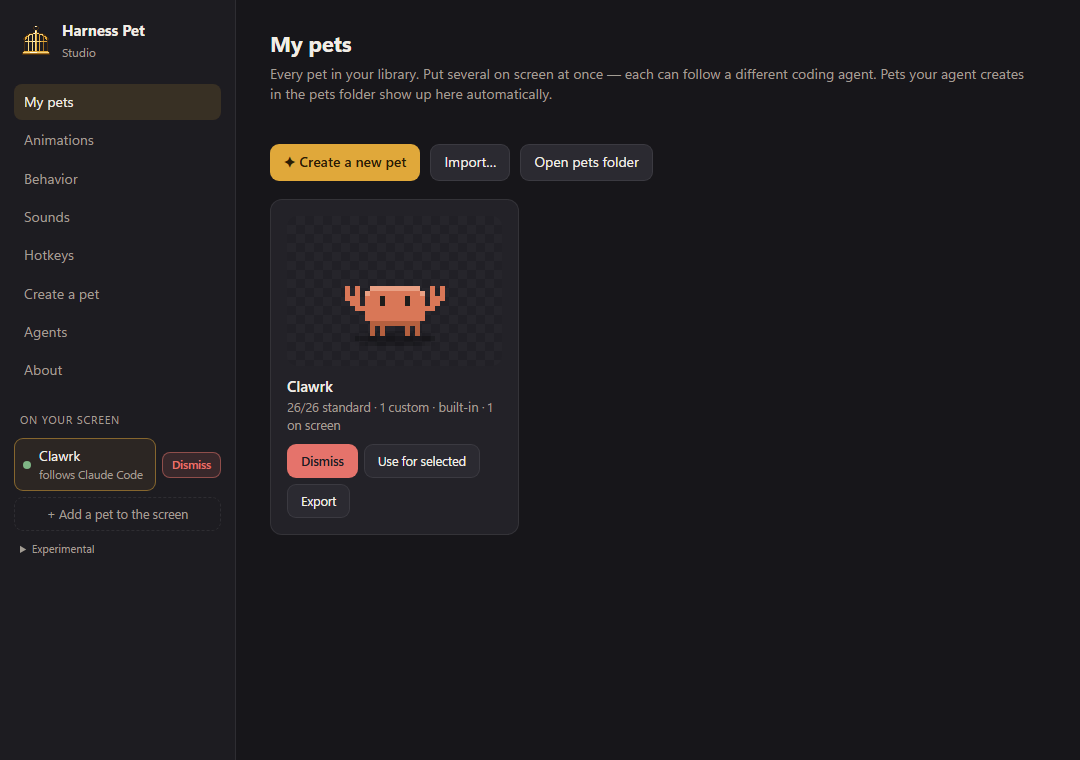
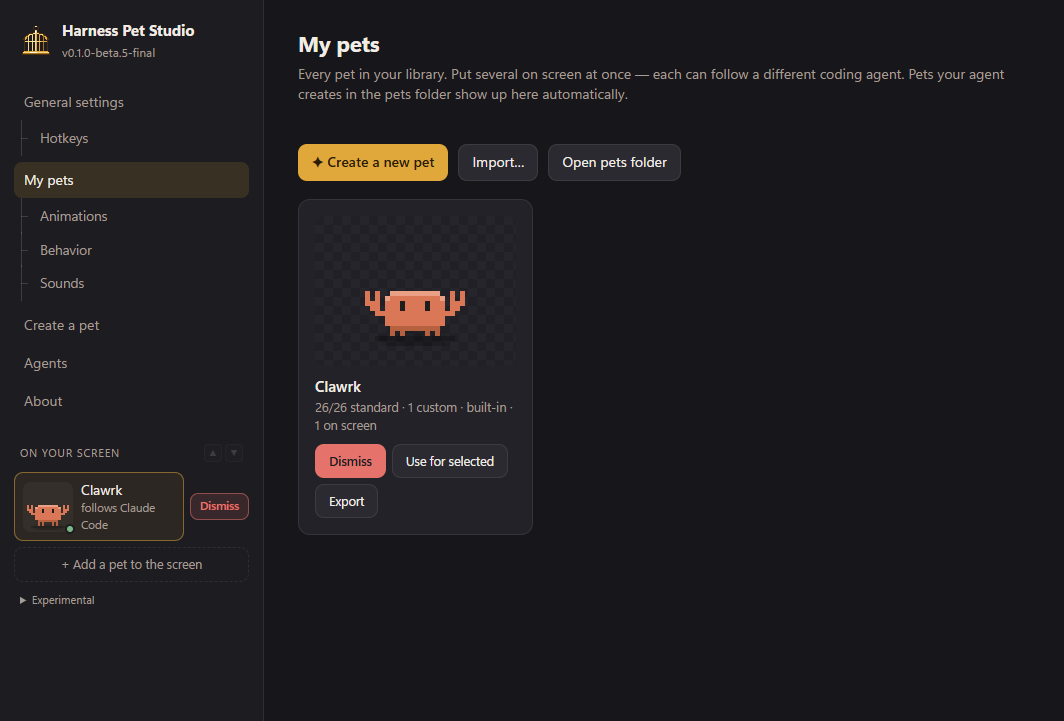
Release 0.1.0-beta.5-final: fix Studio's Show button, a plainer beta warning
Studio's Show button failed after showing a pet: refreshing it returned the
pet's runtime, which holds its window and can't be sent back to Studio. The
handler now returns nothing, and a test covers it.

The README and changelog now call this a barely tested beta, tried on two PCs,
with subpar performance on a 10-year-old Windows 10 laptop.

The docs now match the app: the pet's menu is on middle-click, the sound count
and size range are right, the Rust helpers are explained in Verify it yourself
and in the build steps, and pets are shared through an issue. Issue templates
use the enhancement label, and private security reporting is on.

diff --git a/test/security-boundaries.test.js b/test/security-boundaries.test.js
@@ -103,6 +103,29 @@ test('Studio handlers enforce sender and input checks before filesystem or hook 
   assert.equal(context.testPrefs.instances[0].pet, 'outside');
 });
 
+test('refreshing a pet from Studio sends nothing back that Electron cannot clone', () => {
+  const handlers = new Map();
+  const refreshed = [];
+  const main = path.join(__dirname, '../main.js');
+  const realRequire = createRequire(main);
+  const context = vm.createContext({ process, console, __dirname: path.dirname(main), setTimeout, clearTimeout,
+    require(name) {
+      if (name === 'electron') return { app: { commandLine: { appendSwitch() {} }, requestSingleInstanceLock: () => false, quit() {} }, ipcMain: { handle: (name, fn) => handlers.set(name, fn) } };
+      if (['./lib/security', './lib/ipc-policy', 'fs', 'path'].includes(name)) return realRequire(name);
+      // Like the real host, this hands back the pet's live runtime, which holds its window.
+      if (name === './lib/pet-host') return { refreshPet: (uid) => { refreshed.push(uid); return { uid, win: { destroy() {} } }; } };
+      return {};
+    } });
+  vm.runInContext(fs.readFileSync(main, 'utf8'), context);
+  const frame = { url: pathToFileURL(path.join(__dirname, '../studio/index.html')).href };
+  const wc = { mainFrame: frame };
+  context.testStudio = { isDestroyed: () => false, webContents: wc };
+  vm.runInContext('studio = testStudio; wireStudio()', context);
+  const reply = handlers.get('studio:refresh-instance')({ sender: wc, senderFrame: frame }, 'p');
+  assert.deepEqual(refreshed, ['p']);
+  assert.doesNotThrow(() => structuredClone(reply));
+});
+
 test('configured launches validate schemes/arguments and use no shell; missing executables are handled', async () => {
   for (const target of [{ url: 'javascript:alert(1)' }, { url: 'file:///C:/Windows/calc.exe' }, { url: 'shell://AppsFolder' }, { url: 'data:text/html,x' }, { url: 'https://good', command: 'bad' }, { command: 'node', args: 'bad' }, { command: 'x', args: [null] }]) assert.throws(() => links.validateTarget(target));
   let options; let args; let failed = false;

diff --git a/studio/studio.js b/studio/studio.js
@@ -544,7 +544,7 @@ RENDER.behavior = (root) => {
 
   root.append(
     h('h1', {}, `How ${petLabel(inst)} behaves`),
-    h('p', { class: 'lede' }, 'These settings belong to this pet on screen; each pet can have its own. Most are also in the pet\'s right-click menu.'),
+    h('p', { class: 'lede' }, 'These settings belong to this pet on screen; each pet can have its own. Most are also in the pet\'s middle-click menu.'),
     h('div', { class: 'settings top-row' },
       row('On screen', 'Hide this pet, or dismiss it in a puff of smoke.',
         h('div', { style: 'display:flex;gap:6px' },
@@ -653,7 +653,7 @@ RENDER.sounds = async (root) => {
     h('h1', {}, `${petLabel(inst)}'s sounds`),
     h('p', { class: 'lede' }, 'Tiny sounds, made in code, that play with animations. Pick a sound for any animation, switch it on or off, and set its volume. Each pet has its own mix, and a pet file can bring its own sounds.'),
     h('div', { class: 'settings' },
-      h('div', { class: 'setting' }, h('div', {}, h('div', { class: 't' }, 'Mute this pet'), h('div', { class: 'd' }, 'Hotkey and right-click menu can toggle this too.')),
+      h('div', { class: 'setting' }, h('div', {}, h('div', { class: 't' }, 'Mute this pet'), h('div', { class: 'd' }, 'Hotkey and middle-click menu can toggle this too.')),
         h('label', { class: 'switch' }, h('input', { type: 'checkbox', checked: snd.muted, onchange: (e) => setSound({ muted: e.target.checked }) }), h('span'))),
       h('div', { class: 'setting' }, h('div', {}, h('div', { class: 't' }, 'Volume'), h('div', { class: 'd' }, 'For all of this pet\'s sounds.')),
         h('label', { class: 'param' }, h('input', { type: 'range', min: 0, max: 100, step: 5, value: Math.round(snd.volume * 100), oninput: (e) => (volOut.textContent = e.target.value + '%'), onchange: (e) => setSound({ volume: Number(e.target.value) / 100 }) }), volOut)),

diff --git a/lib/prompts.js b/lib/prompts.js
@@ -193,7 +193,7 @@ ${linkBlock(e, id)}
 
 ## Finish
 
-Tell me which events you hooked, where the config lives, and what the two buttons do. In Harness Pet, I'll set a pet to follow "${name}" (right-click the pet → Follows, or Studio → Agents).
+Tell me which events you hooked, where the config lives, and what the two buttons do. In Harness Pet, I'll set a pet to follow "${name}" (middle-click the pet → Follows, or Studio → Agents).
 `;
 }
 
@@ -219,7 +219,7 @@ function linkAnyAgent(nodePath) {
     .replace(/--harness my-agent/g, '--harness <short-harness-id>')
     .replace(/links\["my-agent"\]/g, 'links["<short-harness-id>"]')
     .replace('`my-agent-<session>.json`', '`<short-harness-id>-<session>.json`')
-    .replace('"my-agent" (right-click', '"<short-harness-id>" (right-click');
+    .replace('"my-agent" (middle-click', '"<short-harness-id>" (middle-click');
   return `> Tip: this works best with a strong agentic model. We suggest ${RECOMMENDED_MODEL}.\n\n` + p;
 }
 

diff --git a/main.js b/main.js
@@ -360,7 +360,7 @@ function wireStudio() {
   handle('duplicate-instance', (uid) => host.duplicateInstance(uid));
   handle('remove-duplicates', () => host.removeDuplicates());
   handle('remove-instance', (uid) => host.removeInstance(uid));
-  handle('refresh-instance', (uid) => host.refreshPet(uid));
+  handle('refresh-instance', (uid) => { host.refreshPet(uid); }); // its return holds the window, which can't cross to Studio
   handle('move-instance', (uid, dir) => host.moveInstance(uid, dir));
   handle('set-cage-enabled', (on) => host.setCageEnabled(on));
   handle('set-general', (key, on) => { setGeneral(key, on); notifyStudio(); });

diff --git a/README.md b/README.md
@@ -4,10 +4,10 @@
 
 Desktop pets that keep an eye on your coding agents. A pet sits on your screen, acts out what your agent is doing (thinking, working, waiting for you, done) and jumps you back into the right app with one click. It ships with **Clawrk**, a pixel crab. You can create your own pets with any coding agent, share them as single files, and run several at once, each following a different agent.
 
-**Windows x64 · beta · free and open source (MIT) · no telemetry.** Tested on Windows 11; Windows 10 should work but hasn't been tested yet. Electron blocks external network requests; configured buttons can open other applications or websites through Windows. Worried about the keyboard watcher? Don't take our word for it: [verify it yourself](#verify-it-yourself).
+**Windows x64 · beta · free and open source (MIT) · no telemetry.** Used daily on Windows 11, barely tested on Windows 10. Electron blocks external network requests; configured buttons can open other applications or websites through Windows. Worried about the keyboard watcher? Don't take our word for it: [verify it yourself](#verify-it-yourself).
 
 > [!IMPORTANT]
-> **This is a beta.** Harness Pet runs daily alongside real Claude Code sessions, but it has only been tried on a few PCs and display setups, and agents other than Claude Code are less tested. Expect rough edges, and please [open an issue](https://github.com/muncheslunches/harness-pet/issues) when you hit one. [CHANGELOG.md](CHANGELOG.md) lists what changed and what's still open.
+> **This is a barely tested beta.** Harness Pet runs daily alongside real Claude Code sessions, but it has only been tried on two PCs, and agents other than Claude Code are less tested. On a 10-year-old Windows 10 laptop with integrated graphics, it ran but performance was subpar. Expect rough edges, and please [open an issue](https://github.com/muncheslunches/harness-pet/issues) when you hit one. [CHANGELOG.md](CHANGELOG.md) lists what changed and what's still open.
 
 ![Clawrk animation supplied by the project owner](docs/images/clawrk.gif)
 
@@ -23,17 +23,17 @@ The screenshots use the current app with an isolated profile and sample session 
 - **A real speech bubble.** It shows the model ("Claude Opus 5.5") and the task. The tail always points at the pet. It turns into a thought bubble while the agent thinks, and a gold "shout" when the agent needs you. Drag it anywhere around the pet and it stays there. If that spot would go off-screen, it slides back into view and returns once there's room.
 - **ChatGPT-pet-style bar.** Minimize the bubble to a bell with a running count, which then collapses into a small pill.
 - **A proper pet menu (middle-click the pet):** jump, sessions, put to sleep (until you click or move it), disable for a while, animations, behavior, size, bubble, sounds, which agent to follow, buttons, always-on-top, click-through, and bring back on screen.
-- **Sounds.** A catalog of 25 tiny synthesized sounds, tied to animations. Each pet has its own mute and volume, and each animation gets its own sound, on/off switch and volume. Pets can ship their own sounds too.
+- **Sounds.** A catalog of 26 tiny synthesized sounds, tied to animations. Each pet has its own mute and volume, and each animation gets its own sound, on/off switch and volume. Pets can ship their own sounds too.
 - **Hotkeys.** System-wide shortcuts to show or hide pets, jump to the agent, press either button, open the Studio, mute, or put everything to sleep. Rebind them by pressing the keys; you're warned if another app already owns a combo.
 - **A crab that acts like a crab:** it wanders sideways, blows bubbles, digs and peeks out, dances, juggles, sneezes, naps in a nightcap, panics when picked up, giggles when double-clicked, and puffs up or squeezes when resized.
 - **Pets meet each other.** Walk into another pet and you get rejected, dizzy, while the other shoos you off. Drop one on another and it gets shoved aside. Idle neighbours wave.
 - **You decide how much it moves:** anchor it to its bar on a short leash, keep it on one screen, any screen or the taskbar, make it shy or clingy, let it fall when dropped, set its speed, or turn on calm mode.
 - **Gets out of your way** (optional, you're asked on first run). Standing on text while you type, a pet huffs and walks to a bare spot until you stop. With Caps Lock on, type `GO AWAY`, `GET OUT` or `MOVE` and every pet near text moves off it and stays put for 30 seconds to 5 minutes, or until you click it. See [Getting out of the way](#getting-out-of-the-way-of-text).
 - **Rests while you're away.** After 5 minutes without keyboard or mouse input pets slow right down; after 10 they fall asleep. Your first touch wakes them, and news from its agent wakes a pet too. It saves CPU and GPU, and you can change the times or turn it off.
-- **Any size.** Ctrl + mouse wheel over the pet resizes it from 50% to 300%, with a little mouse-wheel indicator. Bigger pets move slightly slower.
+- **Any size.** Ctrl + mouse wheel over the pet resizes it from 25% to 400%, with a little mouse-wheel indicator. Bigger pets move slightly slower.
 - **Studio:** a library with live previews, an animation tester with per-animation toggles and sliders, behavior settings, a pet-creation prompt maker, and agent setup.
 - **Modular pets.** A pet is one `.pet.js` file. Missing standard animations get stand-ins plus an **Include this** button that copies a prompt to add them. Custom animations (a bird that zooms across the screen at high speed, say) are detected automatically, with their own toggles and sliders.
-- **Pets run sandboxed, with no network, files or Node:** it can only draw and suggest movement.
+- **Pets run sandboxed, with no network, files or Node:** they can only draw and suggest movement.
 
 ## Run it
 
@@ -146,14 +146,14 @@ If a hook event goes missing, the pet reads the agent's own transcript (Claude C
 
 - **A pet is stuck or frozen.** **Ctrl + double-click** it, or choose **Refresh this pet** from its menu (also in the Studio). Refresh recreates its window and worker and keeps its position and settings. If you can't click the pet, choose **Refresh all pets** from the tray. A crashed pet window reloads automatically, up to twice per minute, and resets its mouse capture so it can't block the desktop.
 - **Pets look slow or asleep and you didn't ask for it.** They rest when there's no keyboard or mouse input, which includes watching a video. Move the mouse, or change the times in **General settings**.
-- **A pet is off-screen.** Middle-click menu → **Bring back on screen**, or **Refresh all pets** from the tray.
+- **A pet is off-screen.** Middle-click menu → **Bring it back on screen**, or **Bring all pets back on screen** from the tray.
 - **The Studio says settings could not be loaded or saved.** See [Settings recovery](#settings-recovery). A failed save is retried and the message clears on its own once a save succeeds.
 - **Claude Code shows hook errors after you moved the app.** Disconnect and Connect again from the new location (see [Uninstall](#uninstall) for other agents).
 - **Logs.** Crashes, helper errors, pet button presses, menu requests and input-delivery failures go to `~/.harness-pet/app.log`; hook failures go to `~/.harness-pet/hook-errors.log`. Review them before sharing; see [CONTRIBUTING.md](CONTRIBUTING.md#reporting-bugs-and-diagnostics) for opt-in diagnostics.
 
 ## Known limitations
 
-- **Windows x64 only.** Tested on Windows 11; Windows 10 hasn't been tested yet. macOS, Linux and Windows ARM64 aren't supported, and the installer build requires a Windows x64 build host.
+- **Windows x64 only.** Used daily on Windows 11. Windows 10 has only had a short test on one old laptop, without Claude Code. macOS, Linux and Windows ARM64 aren't supported, and the installer build requires a Windows x64 build host.
 - **Claude Code is the tested agent.** It has an automatic Connect/Disconnect flow and runs daily against the app. Other agents use setup prompts and may need manual hook configuration. Automated bridge tests cover Claude Code, Antigravity, Cursor and Codex event payloads, but that doesn't prove every integration works live. Gemini CLI, Copilot CLI, Windsurf and Cline are setup guides without live verification.
 - **Hooks add a little time to each tool call.** Claude Code waits for its hooks, and each Harness Pet hook starts PowerShell and Node (about 0.4 seconds on a typical PC), twice per tool call. PowerShell is what lets a hook exit quietly when the app has been removed.
 - **Keep the app at the path used during hook setup.** Disconnect before moving it, then reconnect from the new location. For other agents, update their hook commands manually.
@@ -184,12 +184,12 @@ The typing consent dialog includes the in-memory screen scan. Older profiles are
 
 ### Verify it yourself
 
-A desktop app with a global keyboard hook and screenshots can look like a keylogger, so you're right to check. Harness Pet ships as plain, readable files (no ASAR archive, no minified bundle), so you can inspect the exact code you run:
+A desktop app with a global keyboard hook and screenshots can look like a keylogger, so you're right to check. The app's JavaScript ships as plain, readable files (no ASAR archive, no minified bundle), so you can inspect the exact code you run. The two small Windows helpers are the exception: an install has them as compiled programs in `native/bin`, and their Rust source is in this repository, not in the install.
 
-- **Keyboard watcher:** [`native/rust/src/bin/keywatch.rs`](native/rust/src/bin/keywatch.rs) is the whole hook; [`native/key-watch.ps1`](native/key-watch.ps1) is the same thing in PowerShell, used if that program is missing or blocked. Either one prints `t` ("a key was pressed", at most every 250 ms) and, only while Caps Lock is on, the key code. [`lib/key-watch.js`](lib/key-watch.js) is the only code that reads that output.
+- **Keyboard watcher:** [`native/rust/src/bin/keywatch.rs`](native/rust/src/bin/keywatch.rs) is the whole hook, and an install runs it as `native/bin/harness-pet-keywatch.exe`; [`native/key-watch.ps1`](native/key-watch.ps1) is the same thing in PowerShell, used if that program is missing or blocked. Either one prints `t` ("a key was pressed", at most every 250 ms) and, only while Caps Lock is on, the key code. [`lib/key-watch.js`](lib/key-watch.js) is the only code that reads that output.
 - **Network blocking and sandboxing:** [`lib/security.js`](lib/security.js), [`lib/ipc-policy.js`](lib/ipc-policy.js) and [`runtime/pet-worker.js`](runtime/pet-worker.js).
 
-For an independent second opinion, use **[REA (Reverse Engineer Anything)](https://github.com/morluto/rea)**, a free, MIT-licensed, third-party tool that lets an AI coding agent (Claude Code, Codex, Cursor, Gemini CLI and others) analyze a program and show the evidence behind its answers. Harness Pet is not affiliated with REA. You need Node.js 22.19 or newer.
+For an independent second opinion, use **[REA (Reverse Engineer Anything)](https://github.com/morluto/rea)**, a free, MIT-licensed, third-party tool that lets an AI coding agent (Claude Code, Codex, Cursor, Gemini CLI and others) analyze a program and show the evidence behind its answers. Harness Pet is not affiliated with REA. You need Node.js 22.23.4 or newer in the 22.x line, 24.22.1 or newer in the 24.x line, or 26.12.1 or newer.
 
 > [!WARNING]
 > Install REA only from [github.com/morluto/rea](https://github.com/morluto/rea), [rea.tools](https://rea.tools/) or the [`rea-agents`](https://www.npmjs.com/package/rea-agents) npm package. Fake copies under similar names have shipped malware.
@@ -200,7 +200,7 @@ For an independent second opinion, use **[REA (Reverse Engineer Anything)](https
    npx rea-agents@latest setup
    ```
 
-2. Ask your agent something like this, using the folder you want to check. For an installed copy, that's `%LOCALAPPDATA%\Programs\Harness Pet\resources\app` by default. For a source checkout, use the project folder.
+2. Ask your agent something like this, using the folder you want to check. For an installed copy, that's `%LOCALAPPDATA%\Programs\Harness Pet\resources\app` by default. For a source checkout, use the project folder. The Rust source is only in a source checkout, so an installed copy can only answer for the PowerShell script.
 
    > Use REA to analyze the Electron app at `<folder>`. Does it send any data over the network? What do `native/rust/src/bin/keywatch.rs` and `native/key-watch.ps1` report to the app, and does anything store, log or transmit keystrokes or screenshots? Show me the evidence.
 
@@ -210,7 +210,7 @@ For an independent second opinion, use **[REA (Reverse Engineer Anything)](https
    npx -y rea-agents@latest analyze-javascript-application "$env:LOCALAPPDATA\Programs\Harness Pet\resources\app" --json
    ```
 
-The `node.exe` and Electron executables in an install come from the official Node.js and Electron releases; the build only renames the Electron executable and sets its icon and version details. REA's JavaScript analysis covers Harness Pet's own code. Inspecting those binaries needs a native decompiler such as Ghidra. Found something that contradicts this section? Please [report it privately](SECURITY.md).
+The `node.exe` and Electron executables in an install come from the official Node.js and Electron releases; the build only renames the Electron executable and sets its icon and version details. The two helpers in `native/bin` are built from `native/rust` by the [release workflow](.github/workflows/release.yml). REA's JavaScript analysis covers Harness Pet's own JavaScript. Inspecting any of those binaries needs a native decompiler such as Ghidra. Found something that contradicts this section? Please [report it privately](SECURITY.md).
 
 ### Settings recovery
 
@@ -272,10 +272,11 @@ On Windows x64 with Node.js installed (including its adjacent `LICENSE` file):
 
 ```powershell
 npm install
+npm run build:native
 npm run dist:win
 ```
 
-The installer is written to `dist/Harness-Pet-Setup-<version>-x64.exe`; `dist/win-unpacked` is the complete unpacked app for inspection. The build never publishes or launches the app. Self-built installers are unsigned; see [Windows signing](docs/WINDOWS_SIGNING.md). Official releases are built by the [release workflow](.github/workflows/release.yml) when a `v<version>` tag is pushed.
+`npm run build:native` needs [Rust](https://rustup.rs); without it the installer works but falls back to the PowerShell helpers. The installer is written to `dist/Harness-Pet-Setup-<version>-x64.exe`; `dist/win-unpacked` is the complete unpacked app for inspection. The build never publishes or launches the app. Self-built installers are unsigned; see [Windows signing](docs/WINDOWS_SIGNING.md). Official releases are built by the [release workflow](.github/workflows/release.yml) when a `v<version>` tag is pushed.
 
 ## License
 

diff --git a/CHANGELOG.md b/CHANGELOG.md
@@ -1,6 +1,6 @@
 # Changelog
 
-## 0.1.0-beta.4 — first public beta (unreleased)
+## 0.1.0-beta.5-final — first public beta
 
 The first release with a downloadable Windows installer. It is **unsigned**; each release publishes SHA-256 checksums. See [Windows signing](docs/WINDOWS_SIGNING.md).
 
@@ -21,7 +21,7 @@ The first release with a downloadable Windows installer. It is **unsigned**; eac
 - Smoke-poof sound plays whenever a pet re-appears in a puff of smoke, and a pet is refreshed right before it re-appears.
 - When a hook event goes missing, the pet reads the agent's own transcript to see whether the turn finished, was interrupted (Esc or a declined tool), or stopped on an API error such as a usage limit. This covers Claude Code, Codex and Antigravity, and only reads the records that say how a turn ended, never what the agent read or wrote. Each transcript is parsed again only when it changes.
 - Turn-ending errors reported by hooks (such as Claude Code's `StopFailure`) show as "Usage limit reached" or "Turn error"; a failed tool call doesn't end the turn.
-- The release workflow checks that the tag, package version and installer name match, and marks only versions like `0.1.0-beta.4` as pre-releases.
+- The release workflow checks that the tag, package version and installer name match, and marks only versions like `0.1.0-beta.5-final` as pre-releases.
 - Pets rest while you're away: slow motion after 5 minutes without input, asleep after 10. Your first input wakes them all, news from its agent wakes one, and locking the screen rests them at once. The times are in General settings.
 - Experimental: **Sleep during full-screen apps**.
 - `npm run perf` measures what a set of pets costs, and `npm run test:smoke:rest` checks resting, hidden pets and the helpers in real windows.
@@ -29,7 +29,7 @@ The first release with a downloadable Windows installer. It is **unsigned**; eac
 ### Changed
 
 - Pets without their own "needs you" or "done" animation no longer play the same stand-in for both: "needs you" is an urgent double hop, "done" hops briefly and then settles.
-- Studio > Behavior is grouped (On screen and buttons on top, then Coming and going, Agent and look, Moving around, Personality). Options that depend on another setting are greyed out until it is on. The right-click Behavior menu uses the same groups.
+- Studio > Behavior is grouped (On screen and buttons on top, then Coming and going, Agent and look, Moving around, Personality). Options that depend on another setting are greyed out until it is on. The pet's Behavior menu uses the same groups.
 - A single left click on a pet keeps the current app focused. Bubble clicks and explicit jump actions still open the tracked session; double-click reactions and Ctrl-double-click refresh remain available.
 - A pet keeps calling you while an agent waits for your permission, for up to an hour, even if nothing else happens meanwhile.
 - The NSIS uninstall macro attempts to remove only the uninstalling copy's Claude Code hooks before file removal and skips upgrades.
@@ -61,6 +61,6 @@ The first release with a downloadable Windows installer. It is **unsigned**; eac
 
 ### Still open before 1.0
 
-- An install, Connect, live Claude Code session and uninstall on a second Windows PC; Windows 10 stays listed as untested until it has been tried.
+- Connect and a live Claude Code session on a second Windows PC. Install, uninstall and a short run have been tried on a 10-year-old Windows 10 laptop, where performance was subpar.
 - Each Claude Code tool call waits about 0.8 seconds for two hooks. Running those two hooks in the background (Claude Code's `async` hook option) would remove that wait; it needs a live test first.
 - Code signing. Releases are unsigned with SHA-256 checksums until then.

diff --git a/CONTRIBUTING.md b/CONTRIBUTING.md
@@ -74,7 +74,7 @@ Harness Pet runs on people's desktops, watches the keyboard (when switched on) a
 
 ## Pets in this repository
 
-Only **original characters** can be added to the built-in collection. Pets based on characters from games, films, shows or brands (even as fan art) can't be included: one takedown notice could take the whole project offline. You're welcome to make those for your own use, and to share original pets in Discussions.
+Only **original characters** can be added to the built-in collection. Pets based on characters from games, films, shows or brands (even as fan art) can't be included: one takedown notice could take the whole project offline. You're welcome to make those for your own use, and to share original pets with a *Share or request a pet* issue.
 
 Git ignores everything in `pets/` except Clawrk, the built-in pet, so the pets you make stay on your PC. To propose an original pet, add a `!/pets/<name>.pet.js` line to `.gitignore` in the same pull request.
 

diff --git a/SECURITY.md b/SECURITY.md
@@ -11,7 +11,7 @@ Please **do not** open public GitHub issues or discussions for security vulnerab
 Instead, report vulnerabilities privately:
 
 1. **Send the report through one of these private channels:**
-   - **GitHub private reporting (after repository setup):** use <https://github.com/muncheslunches/harness-pet/security/advisories/new> once private reporting has been enabled and verified. Until then, use the maintainer email below.
+   - **GitHub private reporting:** use <https://github.com/muncheslunches/harness-pet/security/advisories/new>.
    - **Email:** `0vknzqgws@mozmail.com`
 2. **Include in your report:**
    - A clear description of the vulnerability or sandbox escape vector.
